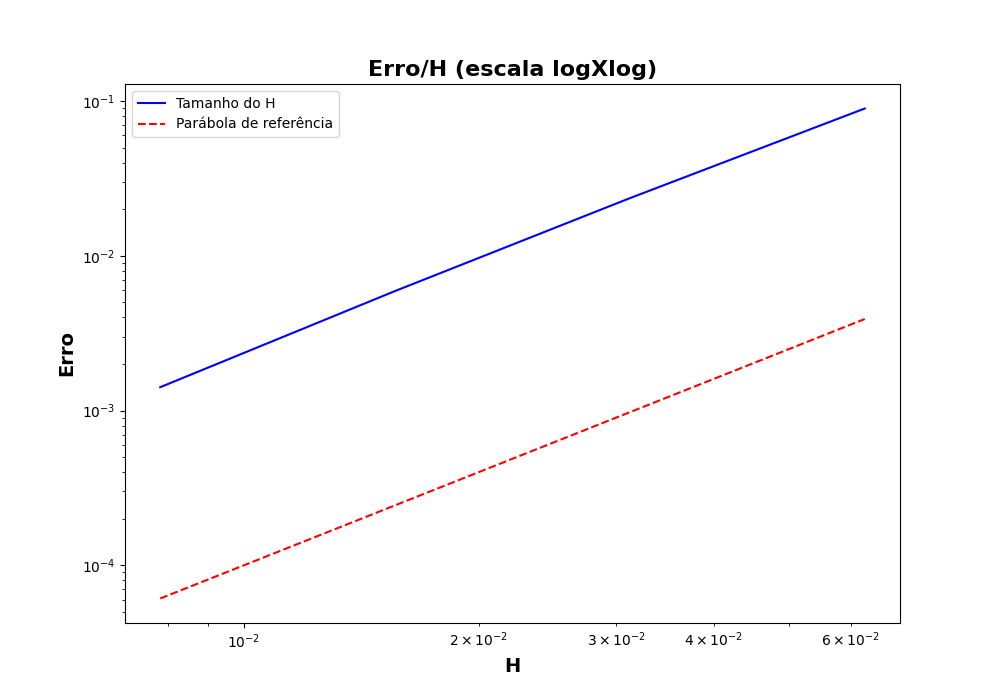
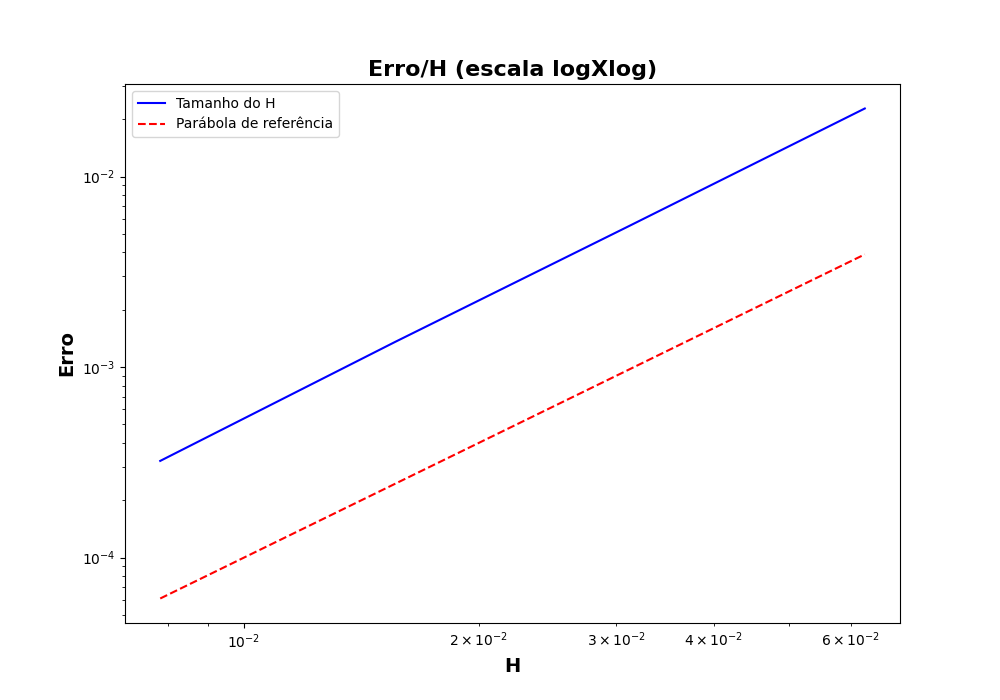
final

diff --git a/01/functions.py b/01/functions.py
@@ -60,7 +60,7 @@ def aprox_sol(a, h, tam_malha, k_2):
     # Condicoes de Neumann e diferenças finitas
     T = sparse.lil_matrix((tam_malha, tam_malha))
     T[0, 0] = (-(4 - h)) / (h * h) + k_2
-    T[-1, -1] = (-(4 + h)) / (h * h) + k_2
+    T[-1, -1] = (-(4 - h)) / (h * h) + k_2
     T[0, 1] = 2 / h / h
     T[-1, -2] = 2 / h / h
 
@@ -75,7 +75,6 @@ def aprox_sol(a, h, tam_malha, k_2):
 
     # Matriz A
     A = sparse.kron((I - I_1), I) + sparse.kron(I_1, T) + sparse.kron(I_2, I_h)
-
     # Vetor B
     F = np.zeros((tam_malha**2, 1))
     for i in range(tam_malha + 1):
